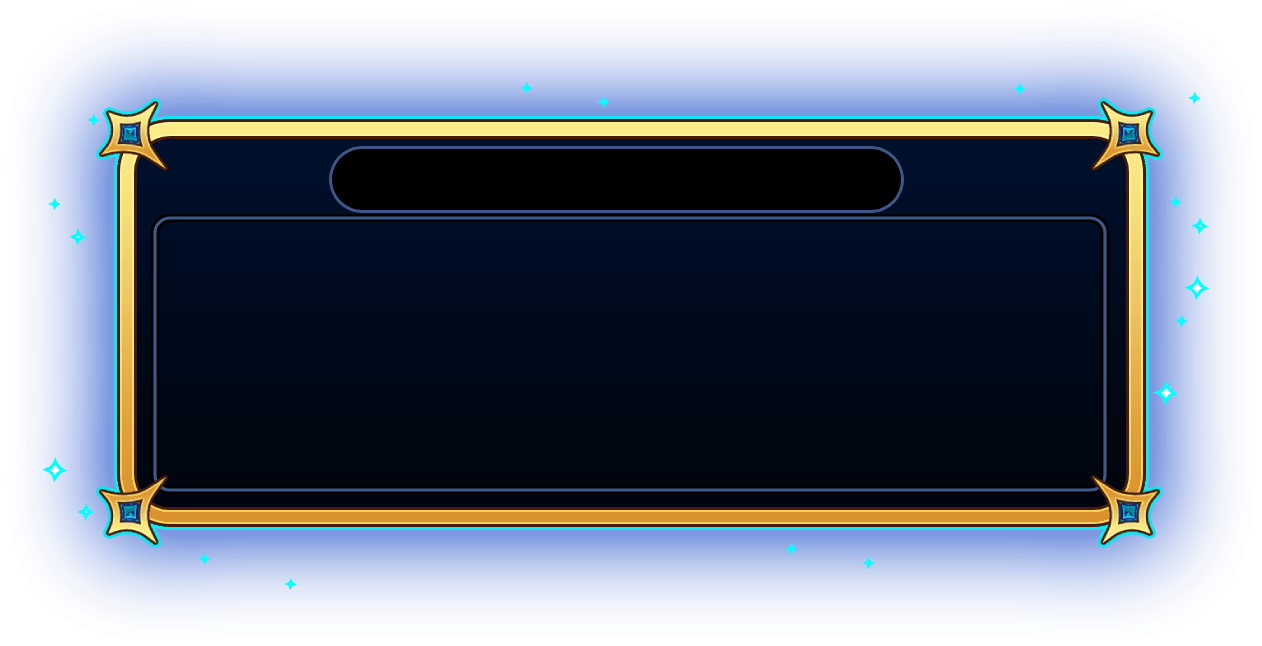
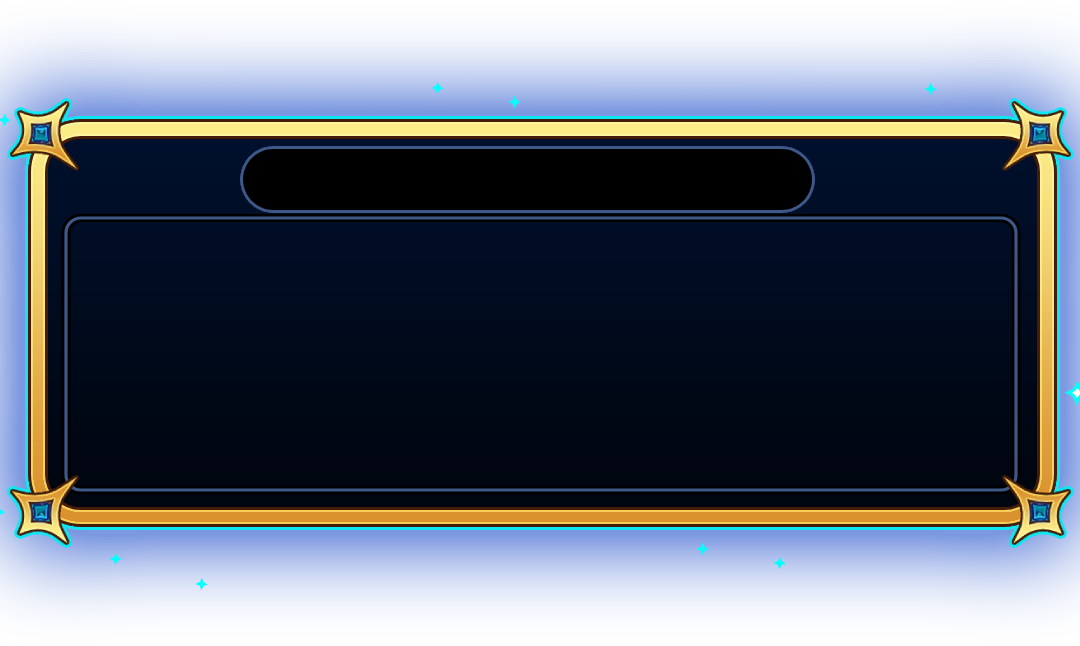
x

diff --git a/css/style.css b/css/style.css
@@ -589,8 +589,8 @@ body {
     background-position: left;
   }
   .overlay .modal-mobile {
-    width: 72vw;
-    height: 35vw;
+    width: 100vw;
+    height: 60vw;
   }
   .overlay .modal-mobile div {
     position: absolute;
@@ -599,21 +599,36 @@ body {
     transform: translate(-50%, -50%);
   }
   .overlay .modal-mobile h3 {
-    margin-top: 1px;
-    margin-right: 1.69vw;
-    font-size: 2.47vw;
+    margin-top: -3.37vw;
+    margin-right: 1.8vw;
+    font-size: 4.05vw;
   }
   .overlay .modal-mobile p {
-    margin-top: 1.69vw;
-    width: 44.94vw;
-    font-size: 2.02vw;
+    margin-top: 3.93vw;
+    width: 60vw;
+    font-size: 2.7vw;
   }
   .overlay .modal-mobile a {
-    width: 28.09vw;
-    height: 5.61vw;
-    margin-top: 1.13vw;
-    line-height: 5.06vw;
-    font-size: 1.8vw;
+    width: 33.7vw;
+    height: 6.74vw;
+    margin-top: 3.37vw;
+    line-height: 6.07vw;
+    font-size: 2.7vw;
+  }
+  .overlay .modal-faq {
+    width: 100vw;
+    height: 87vw;
+    background-image: url(../img/mobile/fundo-pergunta.png);
+  }
+  .overlay .modal-faq h3 {
+    margin-top: 12.36vw;
+    margin-left: 9.55vw;
+    font-size: 2.7vw;
+  }
+  .overlay .modal-faq p {
+    font-size: 2.25vw;
+    width: 80vw;
+    margin: 4.5vw auto 0 auto;
   }
   .desktop {
     display: none;

diff --git a/css/style.scss b/css/style.scss
@@ -721,8 +721,8 @@ body {
 
   .overlay {
     .modal-mobile {
-      width: 72vw;
-      height: 35vw;
+      width: 100vw;
+      height: 60vw;
 
       div {
         position: absolute;
@@ -732,23 +732,42 @@ body {
       }
 
       h3 {
-        margin-top: 1px;
-        margin-right: 1.69vw;
-        font-size: 2.47vw;
+        margin-top: -3.37vw;
+        margin-right: 1.8vw;
+        font-size: 4.05vw;
       }
 
       p {
-        margin-top: 1.69vw;
-        width: 44.94vw;
-        font-size: 2.02vw;
+        margin-top: 3.93vw;
+        width: 60vw;
+        font-size: 2.7vw;
       }
 
       a {
-        width: 28.09vw;
-        height: 5.61vw;
-        margin-top: 1.13vw;
-        line-height: 5.06vw;
-        font-size: 1.8vw;
+        width: 33.7vw;
+        height: 6.74vw;
+        margin-top: 3.37vw;
+        line-height: 6.07vw;
+        font-size: 2.7vw;
+      }
+    }
+
+    .modal-faq {
+      width: 100vw;
+      height: 87vw;
+
+      background-image: url(../img/mobile/fundo-pergunta.png);
+
+      h3 {
+        margin-top: 12.36vw;
+        margin-left: 9.55vw;
+        font-size: 2.7vw;
+      }
+
+      p {
+        font-size: 2.25vw;
+        width: 80vw;
+        margin: 4.5vw auto 0 auto;
       }
     }
   }
